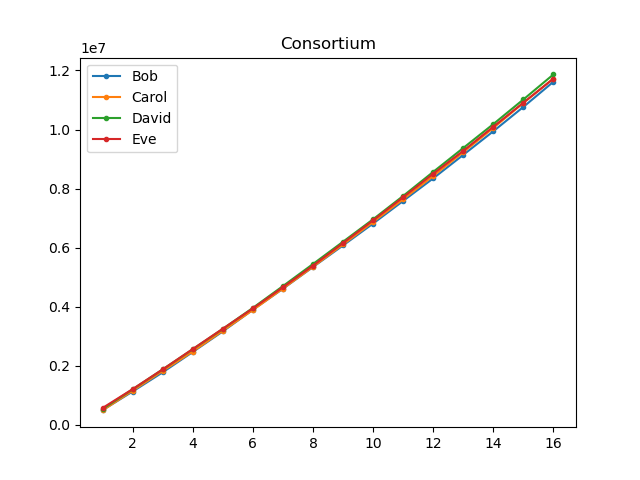
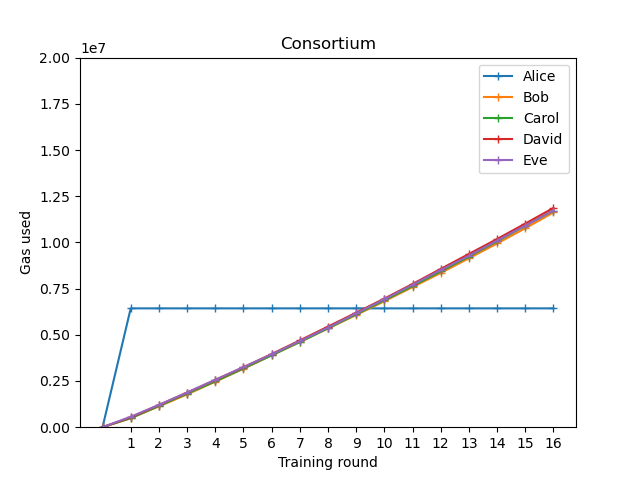
Improve gas plots

diff --git a/scripts/plot_tokens.py b/scripts/plot_tokens.py
@@ -91,16 +91,24 @@ def gas_history(results):
             continue
         protocol = r['protocol']
         num_rounds = r['final_round_num']
-        for name in r['trainers']:
+        for name in ["Alice", *r['trainers']]:
+            x = range(1, num_rounds+1)
             d = r['gas_history'][name]
-            x = list(range(1, num_rounds+1))
             if protocol == 'crowdsource':
                 y = [d[str(i)] for i in x]
             if protocol == 'consortium':
-                y = [sum([
+                if name == "Alice":
+                    y = [d['1']]*len(x)
+                else:
+                    y = [sum([
                         d[k][str(i)] for k in d.keys()
                     ]) for i in x]
-            plt.plot(x, y, label=name, marker='.')
+            y.insert(0, 0)
+            plt.plot(y, label=name, marker='+')
+        plt.xlabel("Training round")
+        plt.xticks(x)
+        plt.ylabel("Gas used")
+        plt.ylim(0, 2e7)
         plt.title(protocol.capitalize())
         plt.legend()
         plt.savefig(make_filepath(r, 'gas'))
